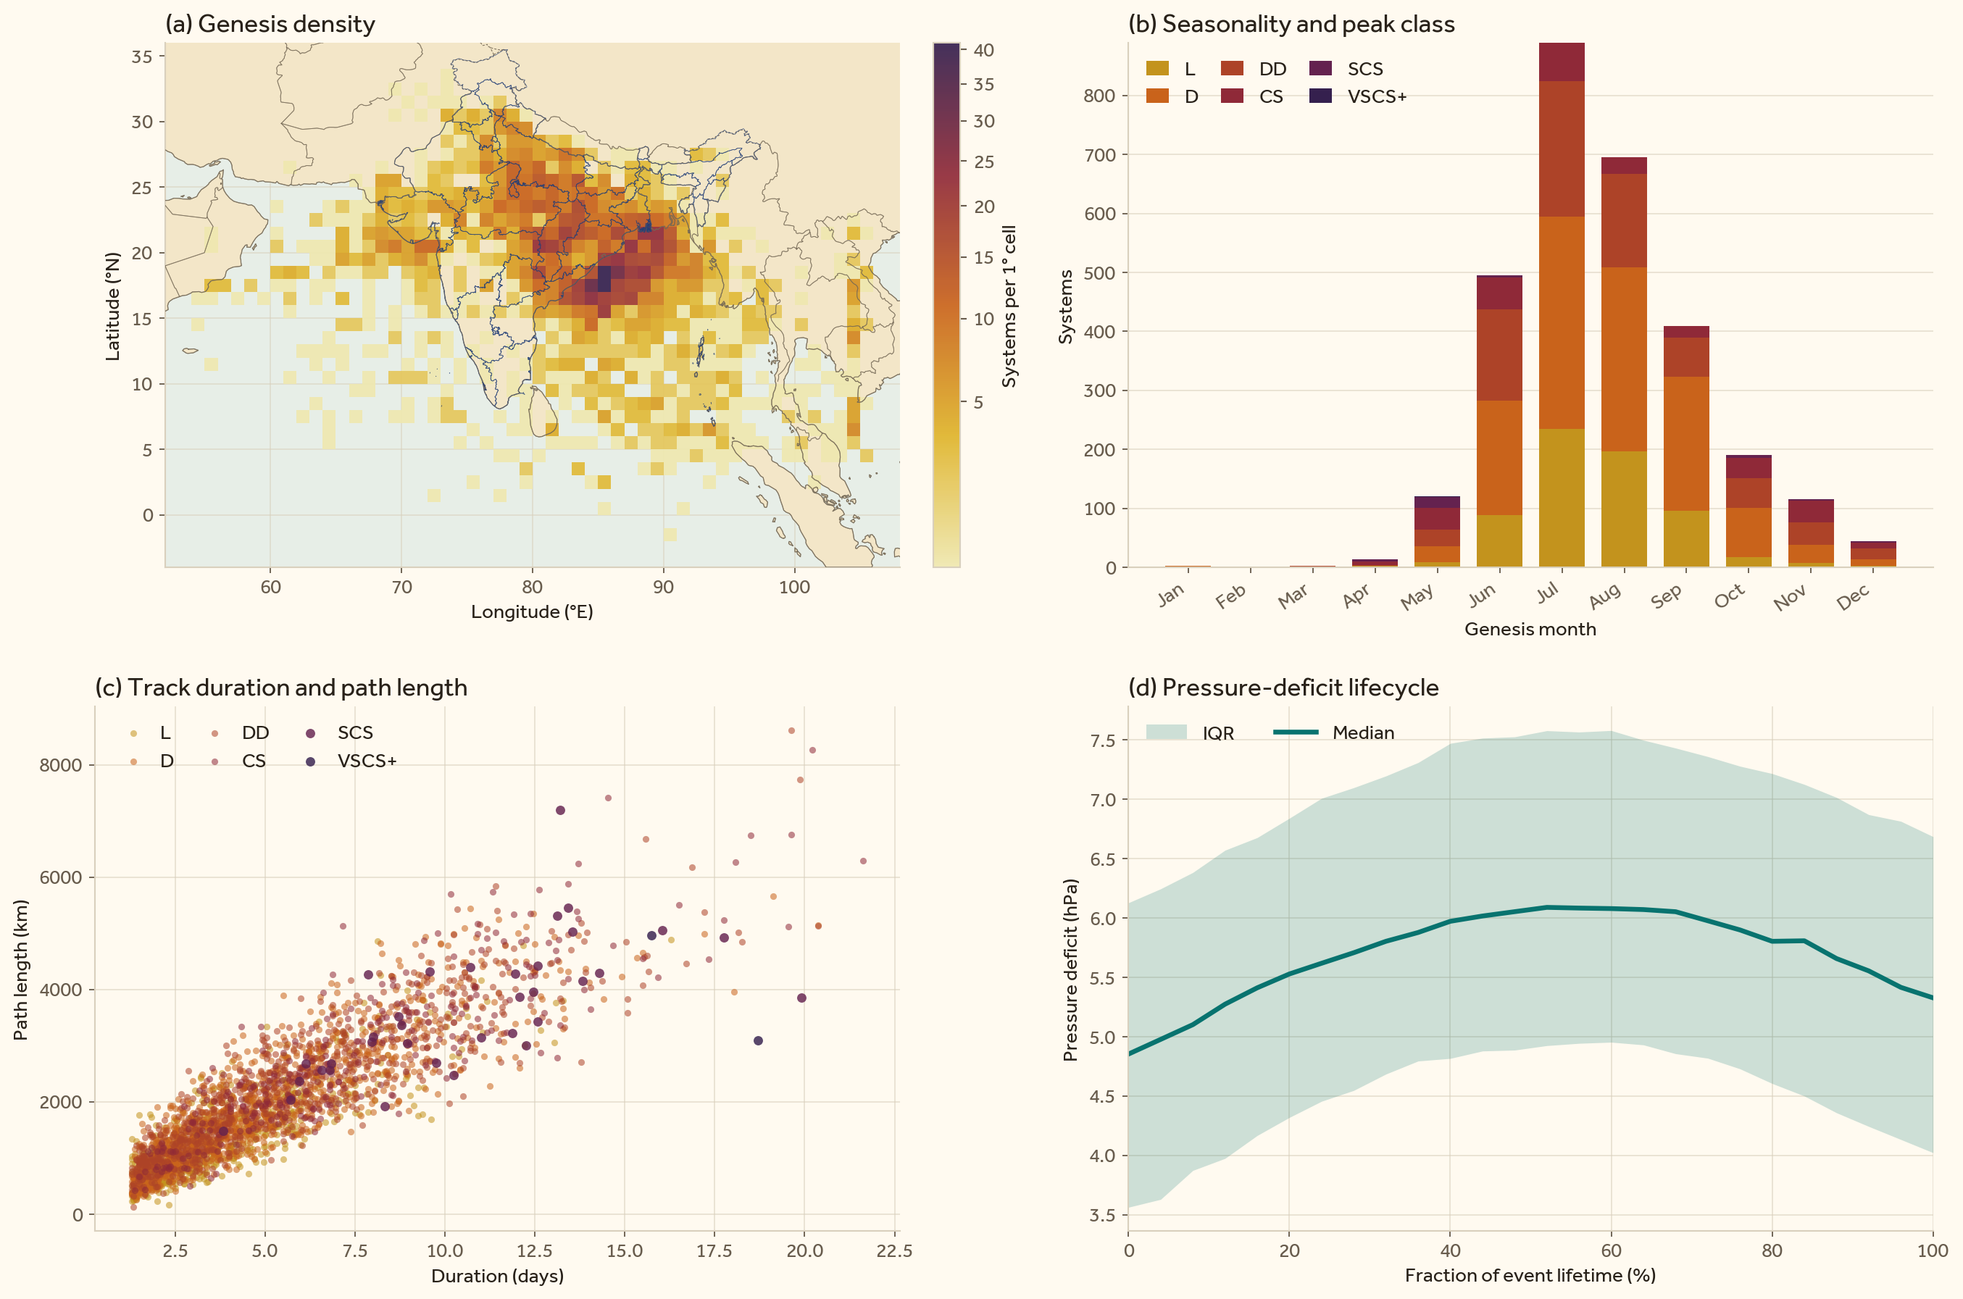
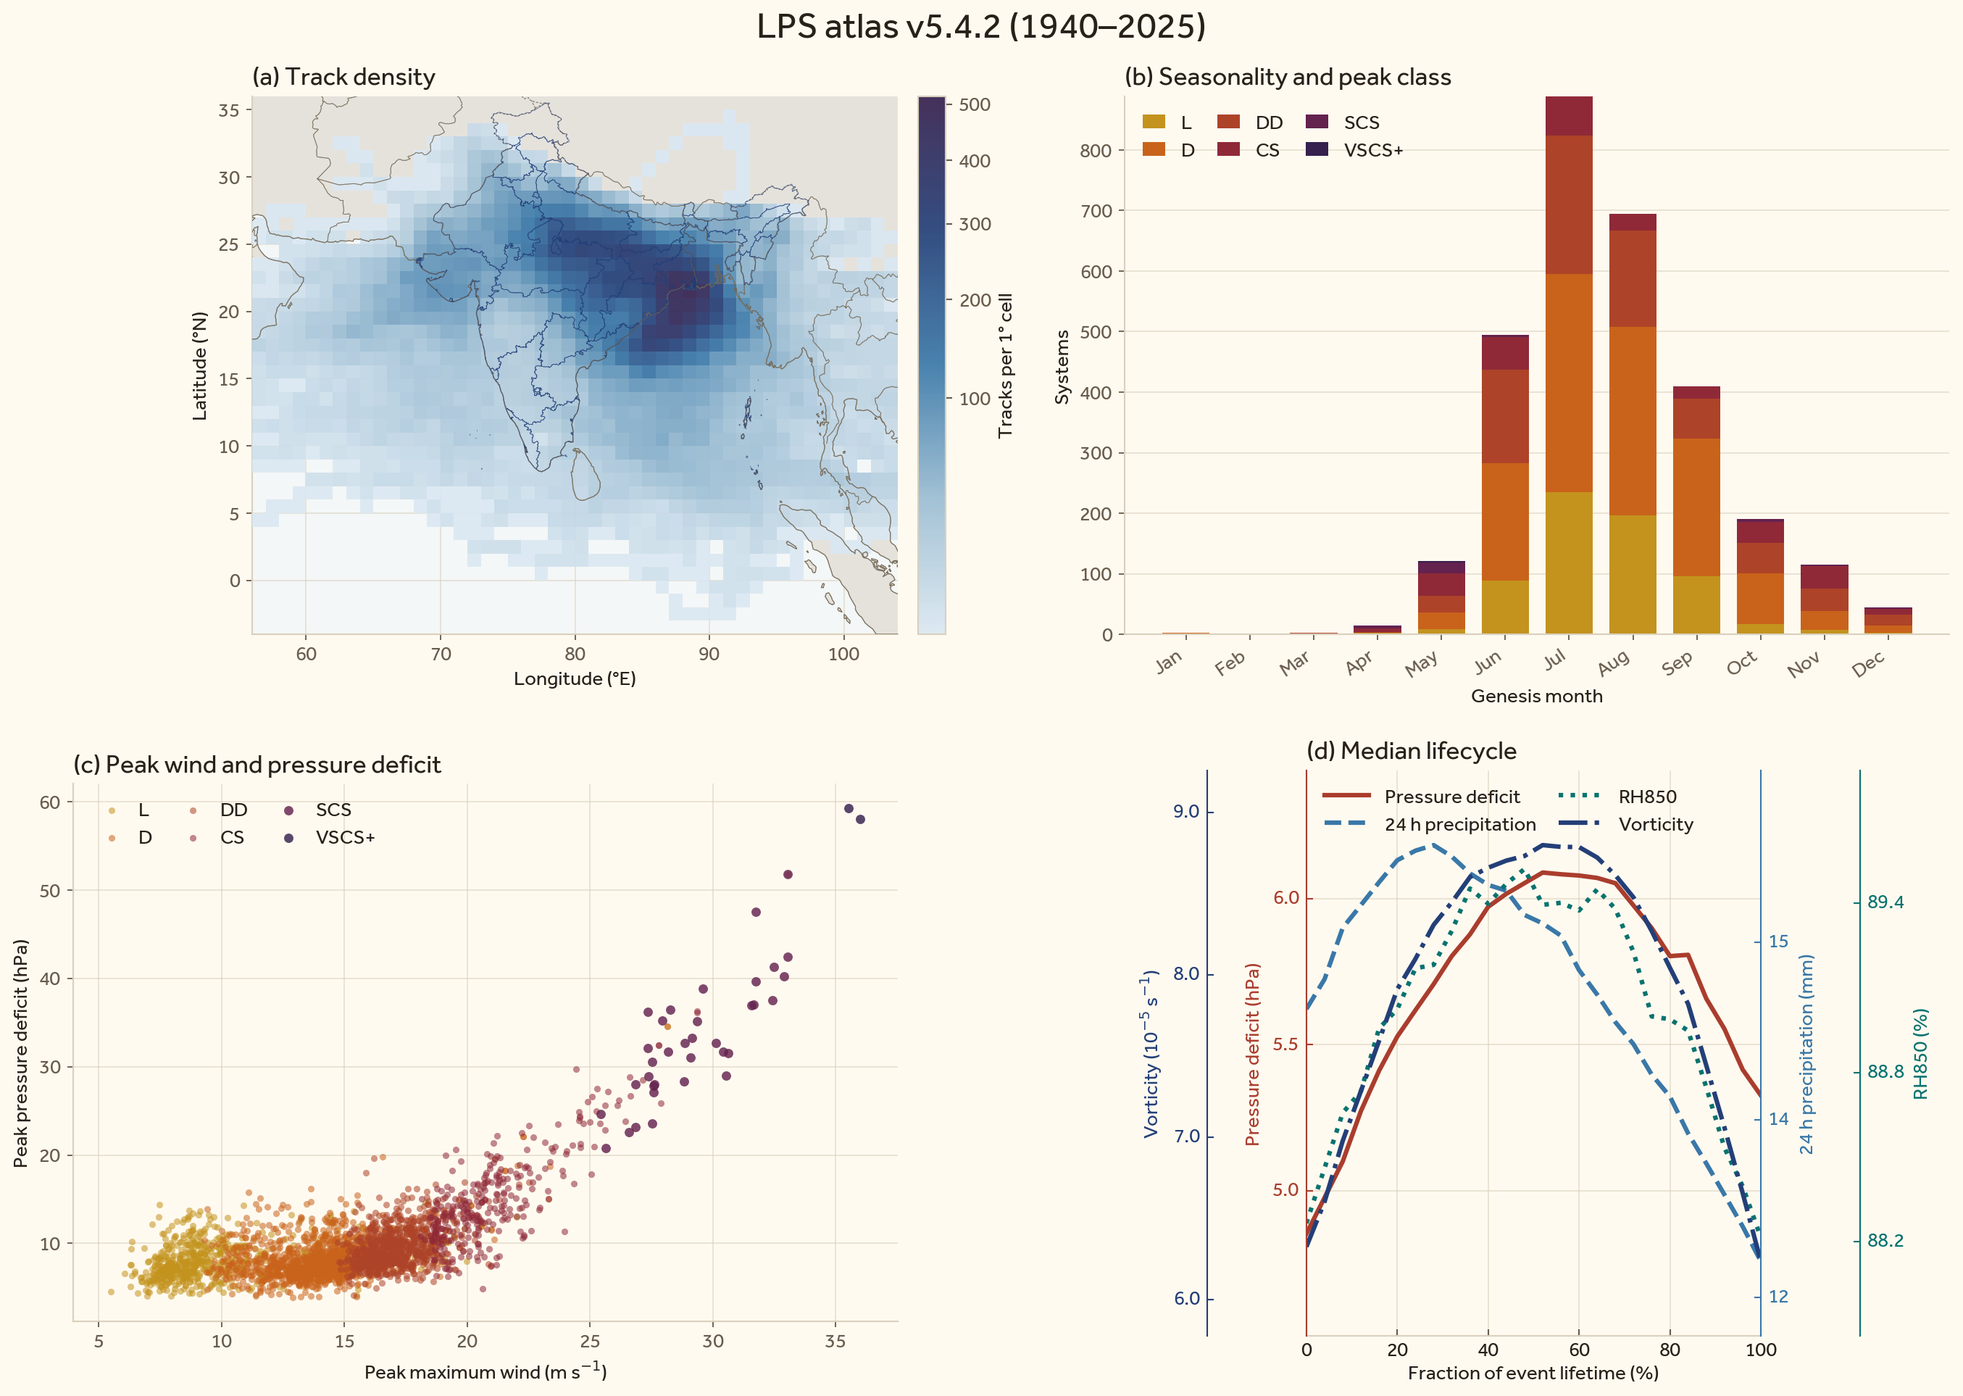
Refine four-panel track diagnostic figure

diff --git a/index.html b/index.html
@@ -703,7 +703,7 @@
 		<section class="mla-panel" id="mlaPanelData" role="tabpanel" aria-labelledby="mlaTabData" data-panel="data" hidden>
 			<div class="mla-panel-heading"><h2>Data, definitions and reproducibility</h2><p>Physical-event identity and complete v5.4.2 final-centre physics are kept explicit.</p></div>
 			<div class="mla-method-grid">
-				<a class="mla-card mla-diagnostic-card" href="figures/lps-v5.4.2-track-diagnostics.png" target="_blank" rel="noopener"><img src="figures/lps-v5.4.2-track-diagnostics.png" alt="Four-panel catalogue diagnostic showing genesis density, seasonal peak classes, duration against path length, and the pressure-deficit lifecycle."></a>
+				<a class="mla-card mla-diagnostic-card" href="figures/lps-v5.4.2-track-diagnostics.png?rev=4" target="_blank" rel="noopener"><img src="figures/lps-v5.4.2-track-diagnostics.png?rev=4" alt="Four-panel catalogue diagnostic showing unique-track density, seasonal peak classes, peak wind against pressure deficit, and a shared lifecycle plot with pressure-deficit, precipitation, relative-humidity and vorticity scales."></a>
 				<section class="mla-card mla-prose"><h3>Catalogue</h3><p><strong>LPS v5.4.2 recall-first core</strong> contains 368,925 hourly positions grouped into 2,980 strength-qualified physical events. Every event is continuous at hourly resolution.</p><h4>Coverage</h4><p id="mlaCoverageText"></p><h4>Scope</h4><p>Positions, classifications and diagnostics are ERA5-derived. The catalogue is not an official best track.</p></section>
 				<section class="mla-card mla-prose"><h3>Identity and physics</h3><p><code>track_id</code> identifies the physical event used for plotting, counts, matching and climatology. <code>event_id</code> and <code>continuity_parent_track_id</code> are identical aliases in v5.4.2.</p><h4>Map convention</h4><p>Each event is drawn as one uniform track. ERA5 physics is independently re-sampled at every observed or supported interpolated centre.</p></section>
 				<section class="mla-card mla-prose"><h3>Metric definitions</h3><ul><li><strong>Pressure deficit:</strong> environmental ring pressure minus local minimum MSLP, hPa.</li><li><strong>MSLP depth:</strong> percentile ranking based on minimum mean sea-level pressure; lower pressure ranks stronger.</li><li><strong>Smoothed vorticity:</strong> centre diagnostic in 10⁻⁵ s⁻¹.</li><li><strong>24 h precipitation:</strong> trailing track-centred catalogue diagnostic, mm; source rows retain their valid-history count.</li><li><strong>Percentiles:</strong> fixed across all 2,980 v5.4.2 physical events and independently combinable; filters do not rescale them.</li></ul><h4>Genesis regions</h4><p>Indian land means the first published centre lies inside an atlas state/UT polygon. Bay of Bengal and Arabian Sea require a water genesis point in 0–30°N, 45–100°E, using the Natural Earth land mask; 77.5°E separates the two ocean bins. Other contains every remaining land or ocean location. These are transparent atlas analysis regions, not official genesis classifications.</p><h4>IBTrACS names</h4><p>Named systems use NOAA IBTrACS v04r01 North Indian and Western Pacific best tracks. Matches use observed fixes at physical-event grain and require credible time overlap, track separation and ambiguity margin. Unmatched systems use atlas class, genesis year and within-class annual sequence, such as DD 1986 03.</p><h4>State rainfall</h4><p>State fills use IMD 0.25-degree daily gridded rainfall. Each event stores the area-mean daily rainfall averaged over UTC calendar days touched by its track; cohort maps weight events by active days.</p></section>

diff --git a/scripts/build_track_diagnostic_figure.py b/scripts/build_track_diagnostic_figure.py
@@ -3,12 +3,12 @@
 
 Chart contract
 --------------
-Question: Which spatial, seasonal, track-geometry and lifecycle structures are
+Question: Which spatial, seasonal, intensity and lifecycle structures are
 most useful for a compact introduction to the public v5.4.2 catalogue?
 Grain: one physical event for panels a-c; one event per normalised-life bin
 before cross-event aggregation for panel d.
-Metrics: genesis count per 1-degree cell, genesis month by peak atlas class,
-hourly-centre path length against duration, and pressure-deficit median/IQR.
+Metrics: unique-track count per 1-degree cell, genesis month by peak atlas class,
+track-peak wind against pressure deficit, and four-metric lifecycle medians.
 Missing values: finite values only; each event contributes at most once to any
 aggregate cell or life bin.
 """
@@ -25,7 +25,9 @@ import matplotlib.pyplot as plt
 import numpy as np
 import pandas as pd
 from matplotlib.font_manager import FontProperties, fontManager
+from matplotlib.lines import Line2D
 from matplotlib.patches import Polygon
+from mpl_toolkits.axisartist.parasite_axes import HostAxes
 
 
 ATLAS_ROOT = Path(__file__).resolve().parents[1]
@@ -42,10 +44,12 @@ PAPER = "#fffaf0"
 INK = "#282119"
 MUTED = "#685c4d"
 GRID = "#d9d0bd"
-LAND = "#f3e6c8"
-SEA = "#e7eee7"
+LAND = "#e5e2dc"
+SEA = "#f4f7f7"
 INDIGO = "#233f78"
 PEACOCK = "#08736f"
+MADDER = "#aa3d2d"
+ATLAS_BLUE = "#3978a8"
 CLASS_COLOURS = ["#c3931d", "#c9631b", "#ad4328", "#8f2938", "#64224f", "#35204e"]
 CLASS_LABELS = ["L", "D", "DD", "CS", "SCS", "VSCS+"]
 MONTH_LABELS = ["Jan", "Feb", "Mar", "Apr", "May", "Jun", "Jul", "Aug", "Sep", "Oct", "Nov", "Dec"]
@@ -98,9 +102,12 @@ def load_data(path: Path) -> pd.DataFrame:
         "time",
         "lon",
         "lat",
-        "track_duration_hours",
         "imd_category",
         "pressure_deficit_hpa",
+        "max_wind",
+        "precip_24hr",
+        "rh850_mean_pct",
+        "max_vort_smoothed",
     ]
     frame = pd.read_parquet(path, columns=columns)
     return frame.sort_values(["track_id", "time"], kind="stable").reset_index(drop=True)
@@ -111,43 +118,51 @@ def event_summary(frame: pd.DataFrame) -> pd.DataFrame:
     summary = pd.DataFrame(
         {
             "genesis_time": group["time"].first(),
-            "genesis_lon": group["lon"].first(),
-            "genesis_lat": group["lat"].first(),
-            "duration_hours": group["track_duration_hours"].first(),
             "peak_class": group["imd_category"].max(),
+            "peak_wind": group["max_wind"].max(),
+            "peak_deficit": group["pressure_deficit_hpa"].max(),
         }
     )
-
-    previous_lat = group["lat"].shift()
-    previous_lon = group["lon"].shift()
-    lat1 = np.deg2rad(previous_lat.to_numpy(dtype=float))
-    lat2 = np.deg2rad(frame["lat"].to_numpy(dtype=float))
-    delta_lat = lat2 - lat1
-    delta_lon = np.deg2rad(frame["lon"].to_numpy(dtype=float) - previous_lon.to_numpy(dtype=float))
-    haversine = np.sin(delta_lat / 2) ** 2 + np.cos(lat1) * np.cos(lat2) * np.sin(delta_lon / 2) ** 2
-    frame = frame.assign(step_km=6371.0088 * 2 * np.arcsin(np.sqrt(np.clip(haversine, 0, 1))))
-    summary["path_km"] = frame.groupby("track_id", sort=False, observed=True)["step_km"].sum(min_count=1)
     summary["genesis_month"] = pd.to_datetime(summary["genesis_time"], utc=True).dt.month
     return summary
 
 
-def lifecycle_summary(frame: pd.DataFrame) -> pd.DataFrame:
+def unique_track_density(frame: pd.DataFrame, lon_edges: np.ndarray, lat_edges: np.ndarray) -> np.ndarray:
+    lon_bin = np.searchsorted(lon_edges, frame["lon"].to_numpy(dtype=float), side="right") - 1
+    lat_bin = np.searchsorted(lat_edges, frame["lat"].to_numpy(dtype=float), side="right") - 1
+    valid = (lon_bin >= 0) & (lon_bin < len(lon_edges) - 1) & (lat_bin >= 0) & (lat_bin < len(lat_edges) - 1)
+    occupied = pd.DataFrame(
+        {
+            "track_id": frame.loc[valid, "track_id"].to_numpy(),
+            "lon_bin": lon_bin[valid],
+            "lat_bin": lat_bin[valid],
+        }
+    ).drop_duplicates(["track_id", "lon_bin", "lat_bin"])
+    counts = occupied.groupby(["lat_bin", "lon_bin"], observed=True).size()
+    density = np.zeros((len(lat_edges) - 1, len(lon_edges) - 1), dtype=int)
+    for (lat_index, lon_index), count in counts.items():
+        density[int(lat_index), int(lon_index)] = int(count)
+    return density
+
+
+def lifecycle_summaries(frame: pd.DataFrame, metrics: list[str]) -> dict[str, pd.DataFrame]:
     group = frame.groupby("track_id", sort=False, observed=True)
     order = group.cumcount().to_numpy(dtype=float)
     length = group["track_id"].transform("size").to_numpy(dtype=float)
     life_fraction = np.divide(order, np.maximum(1, length - 1), out=np.zeros_like(order), where=length > 1)
     life_bin = np.clip(np.rint(life_fraction * 25), 0, 25).astype(int) * 4
-    values = frame[["track_id", "pressure_deficit_hpa"]].assign(life_fraction=life_bin)
-    values = values[np.isfinite(values["pressure_deficit_hpa"])]
-    per_event = values.groupby(["track_id", "life_fraction"], observed=True)["pressure_deficit_hpa"].median()
-    by_bin = per_event.groupby("life_fraction")
-    return pd.DataFrame(
-        {
-            "median": by_bin.median(),
-            "q1": by_bin.quantile(0.25),
-            "q3": by_bin.quantile(0.75),
-        }
-    ).reset_index()
+    summaries = {}
+    for metric in metrics:
+        values = frame[["track_id", metric]].assign(life_fraction=life_bin)
+        values = values[np.isfinite(values[metric])]
+        per_event = values.groupby(["track_id", "life_fraction"], observed=True)[metric].median()
+        by_bin = per_event.groupby("life_fraction")
+        summaries[metric] = pd.DataFrame(
+            {
+                "median": by_bin.median(),
+            }
+        ).reset_index()
+    return summaries
 
 
 def load_geography(path: Path) -> dict:
@@ -188,20 +203,33 @@ def style_axis(ax: plt.Axes, grid_axis: str = "both") -> None:
 
 
 def build_figure(frame: pd.DataFrame, summary: pd.DataFrame, geography: dict) -> plt.Figure:
-    lifecycle = lifecycle_summary(frame)
-    figure, axes = plt.subplots(2, 2, figsize=(14.2, 9.4), constrained_layout=True)
-    figure.get_layout_engine().set(w_pad=0.07, h_pad=0.08, wspace=0.04, hspace=0.06)
+    lifecycle = lifecycle_summaries(
+        frame,
+        ["pressure_deficit_hpa", "precip_24hr", "rh850_mean_pct", "max_vort_smoothed"],
+    )
+    figure = plt.figure(figsize=(14.2, 10.1), constrained_layout=True)
+    grid = figure.add_gridspec(2, 2)
+    lifecycle_grid = grid[1, 1].subgridspec(1, 2, width_ratios=[1, 0.16], wspace=0.02)
+    axes = np.array(
+        [
+            [figure.add_subplot(grid[0, 0]), figure.add_subplot(grid[0, 1])],
+            [figure.add_subplot(grid[1, 0]), figure.add_subplot(lifecycle_grid[0, 0], axes_class=HostAxes)],
+        ],
+        dtype=object,
+    )
+    figure.get_layout_engine().set(w_pad=0.07, h_pad=0.08, wspace=0.04, hspace=0.07)
+    figure.suptitle("LPS atlas v5.4.2 (1940–2025)", fontsize=19, fontweight=500)
 
-    # (a) One genesis point per event, aggregated on a transparent 1-degree grid.
+    # (a) Each physical event contributes at most once to any 1-degree cell.
     ax = axes[0, 0]
     ax.set_facecolor(SEA)
     draw_geography(ax, geography)
     lon_edges = np.arange(52, 109, 1)
     lat_edges = np.arange(-4, 37, 1)
-    density, _, _ = np.histogram2d(summary["genesis_lon"], summary["genesis_lat"], bins=[lon_edges, lat_edges])
-    density = np.ma.masked_where(density.T == 0, density.T)
+    density = unique_track_density(frame, lon_edges, lat_edges)
+    density = np.ma.masked_where(density == 0, density)
     colour_map = mpl.colors.LinearSegmentedColormap.from_list(
-        "atlas_density", ["#efe8b0", "#dfb42a", "#c9631b", "#8f2938", "#35204e"]
+        "atlas_density", ["#dbe8f2", "#9bbdd3", ATLAS_BLUE, INDIGO, "#35204e"]
     )
     mesh = ax.pcolormesh(
         lon_edges,
@@ -214,12 +242,12 @@ def build_figure(frame: pd.DataFrame, summary: pd.DataFrame, geography: dict) ->
         zorder=3,
     )
     draw_geography(ax, geography, outlines_only=True)
-    ax.set(xlim=(52, 108), ylim=(-4, 36), xlabel="Longitude (°E)", ylabel="Latitude (°N)")
+    ax.set(xlim=(56, 104), ylim=(-4, 36), xlabel="Longitude (°E)", ylabel="Latitude (°N)")
     ax.set_aspect("equal", adjustable="box")
-    ax.set_title("(a) Genesis density", loc="left")
+    ax.set_title("(a) Track density", loc="left")
     style_axis(ax)
     colour_bar = figure.colorbar(mesh, ax=ax, location="right", fraction=0.036, pad=0.025)
-    colour_bar.set_label("Systems per 1° cell")
+    colour_bar.set_label("Tracks per 1° cell")
     colour_bar.outline.set_edgecolor(GRID)
 
     # (b) Genesis season, separated by the maximum atlas-derived class reached.
@@ -237,36 +265,73 @@ def build_figure(frame: pd.DataFrame, summary: pd.DataFrame, geography: dict) ->
     ax.legend(ncol=3, loc="upper left", handlelength=1.1, columnspacing=1.1)
     style_axis(ax, "y")
 
-    # (c) Geometry at event grain; all hourly steps contribute to path length.
+    # (c) Physical intensity relationship at one-point-per-event grain.
     ax = axes[1, 0]
     for category, (label, colour) in enumerate(zip(CLASS_LABELS, CLASS_COLOURS), start=1):
         subset = summary[summary["peak_class"] == category]
         ax.scatter(
-            subset["duration_hours"] / 24,
-            subset["path_km"],
+            subset["peak_wind"],
+            subset["peak_deficit"],
             s=12 if category < 5 else 24,
             color=colour,
             alpha=0.55 if category < 5 else 0.82,
             linewidths=0,
             label=label,
         )
-    ax.set(xlabel="Duration (days)", ylabel="Path length (km)")
-    ax.set_title("(c) Track duration and path length", loc="left")
+    ax.set(xlabel=r"Peak maximum wind (m s$^{-1}$)", ylabel="Peak pressure deficit (hPa)")
+    ax.set_title("(c) Peak wind and pressure deficit", loc="left")
     ax.legend(ncol=3, loc="upper left", handletextpad=0.35, columnspacing=1.0)
     style_axis(ax)
 
-    # (d) Each event contributes one within-event median to each life-fraction bin.
-    ax = axes[1, 1]
-    x = lifecycle["life_fraction"].to_numpy(dtype=float)
-    q1 = lifecycle["q1"].to_numpy(dtype=float)
-    q3 = lifecycle["q3"].to_numpy(dtype=float)
-    median = lifecycle["median"].to_numpy(dtype=float)
-    ax.fill_between(x, q1, q3, color=PEACOCK, alpha=0.20, linewidth=0, label="IQR")
-    ax.plot(x, median, color=PEACOCK, linewidth=2.5, label="Median")
-    ax.set(xlim=(0, 100), xlabel="Fraction of event lifetime (%)", ylabel="Pressure deficit (hPa)")
-    ax.set_title("(d) Pressure-deficit lifecycle", loc="left")
-    ax.legend(loc="upper left", ncol=2)
-    style_axis(ax)
+    # (d) Shared life-fraction x-axis with a separate physical y-scale per variable.
+    lifecycle_specs = [
+        ("pressure_deficit_hpa", "Pressure deficit (hPa)", MADDER, "-", "left", "%.1f"),
+        ("precip_24hr", "24 h precipitation (mm)", ATLAS_BLUE, "--", "right", "%.0f"),
+        ("rh850_mean_pct", "RH850 (%)", PEACOCK, ":", "right2", "%.1f"),
+        ("max_vort_smoothed", r"Vorticity (10$^{-5}$ s$^{-1}$)", INDIGO, "-.", "left2", "%.1f"),
+    ]
+    host = axes[1, 1]
+    rain_axis = host.twinx()
+    rh_axis = host.twinx()
+    vort_axis = host.twinx()
+    rh_axis.axis["right2"] = rh_axis.new_fixed_axis(loc="right", offset=(52, 0))
+    rh_axis.axis["right2"].toggle(all=True)
+    rh_axis.axis["right"].set_visible(False)
+    vort_axis.axis["left2"] = vort_axis.new_fixed_axis(loc="left", offset=(-52, 0))
+    vort_axis.axis["left2"].toggle(all=True)
+    vort_axis.axis["right"].set_visible(False)
+    parasites = [host, rain_axis, rh_axis, vort_axis]
+    host.axis["top"].set_visible(False)
+    host.axis["right"].set_visible(False)
+    for parasite in parasites[1:]:
+        parasite.axis["top"].set_visible(False)
+        parasite.axis["bottom"].set_visible(False)
+        parasite.axis["left"].set_visible(False)
+    for (metric, label, colour, line_style, axis_name, number_format), ax in zip(lifecycle_specs, parasites):
+        values = lifecycle[metric]
+        x = values["life_fraction"].to_numpy(dtype=float)
+        median = values["median"].to_numpy(dtype=float)
+        ax.plot(x, median, color=colour, linewidth=2.35, linestyle=line_style)
+        span = np.nanmax(median) - np.nanmin(median)
+        padding = max(0.35, span * 0.18)
+        ax.set_ylim(np.nanmin(median) - padding, np.nanmax(median) + padding)
+        ax.yaxis.set_major_locator(mpl.ticker.MaxNLocator(nbins=4))
+        ax.yaxis.set_major_formatter(mpl.ticker.FormatStrFormatter(number_format))
+        display_axis = ax.axis[axis_name]
+        display_axis.toggle(all=True)
+        display_axis.label.set_text(label)
+        display_axis.label.set_color(colour)
+        display_axis.major_ticklabels.set_color(colour)
+        display_axis.major_ticks.set_color(colour)
+        display_axis.line.set_color(colour)
+    host.set(xlim=(0, 100), xlabel="Fraction of event lifetime (%)")
+    host.set_title("(d) Median lifecycle", loc="left")
+    host.grid(True, color=GRID, linewidth=0.65, alpha=0.62)
+    legend_handles = [
+        Line2D([0], [0], color=colour, linewidth=2.35, linestyle=line_style, label=label.split(" (")[0])
+        for unused, label, colour, line_style, unused_axis, unused_format in lifecycle_specs
+    ]
+    host.legend(handles=legend_handles, loc="upper left", ncol=2, columnspacing=1.1, handlelength=2.2)
 
     return figure
 
@@ -278,11 +343,11 @@ def main() -> None:
     summary = event_summary(frame)
     if len(summary) != 2_980 or not summary.index.is_unique:
         raise ValueError(f"Expected 2,980 unique physical events, found {len(summary):,}")
-    required = summary[["genesis_lon", "genesis_lat", "duration_hours", "path_km", "peak_class"]]
+    required = summary[["peak_wind", "peak_deficit", "peak_class"]]
     if not np.isfinite(required.to_numpy(dtype=float)).all():
         raise ValueError("Non-finite event summary values would make the figure incomplete")
-    if (summary["path_km"] < 0).any() or not summary["peak_class"].between(1, 6).all():
-        raise ValueError("Event path lengths or peak classes are outside their valid domains")
+    if (summary[["peak_wind", "peak_deficit"]] < 0).any().any() or not summary["peak_class"].between(1, 6).all():
+        raise ValueError("Event intensity values or peak classes are outside their valid domains")
     geography = load_geography(args.core)
     figure = build_figure(frame, summary, geography)
     args.output.parent.mkdir(parents=True, exist_ok=True)
